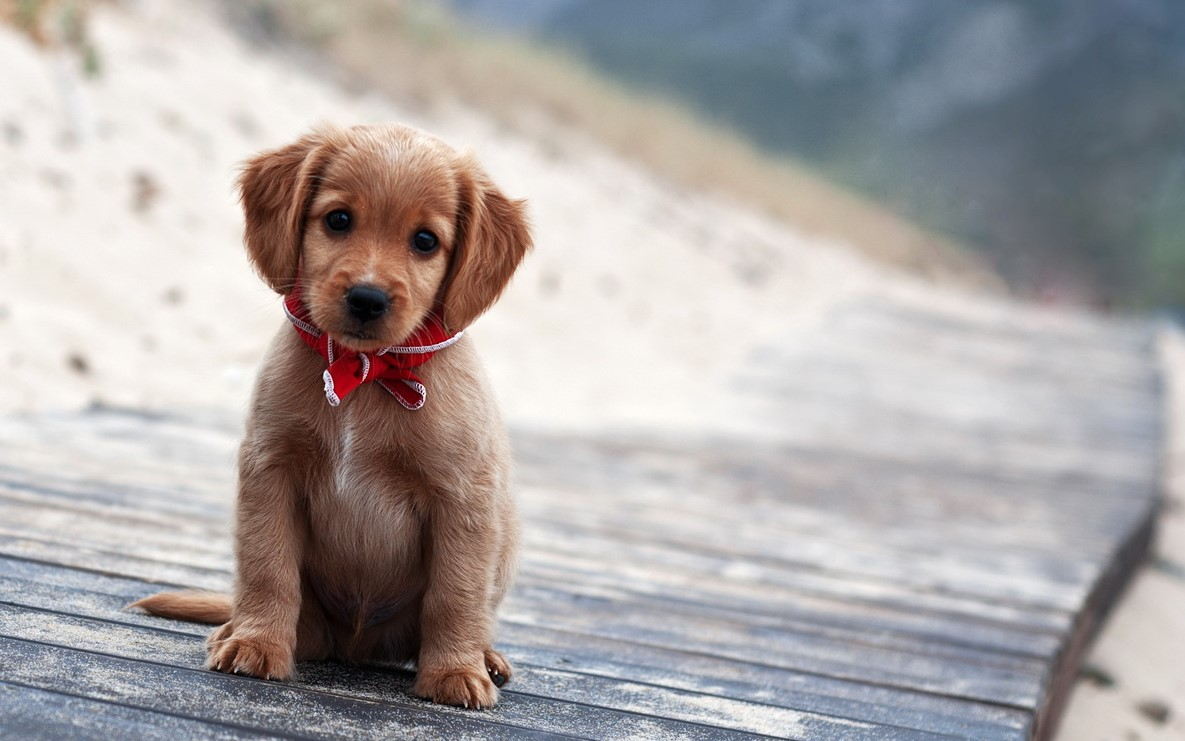
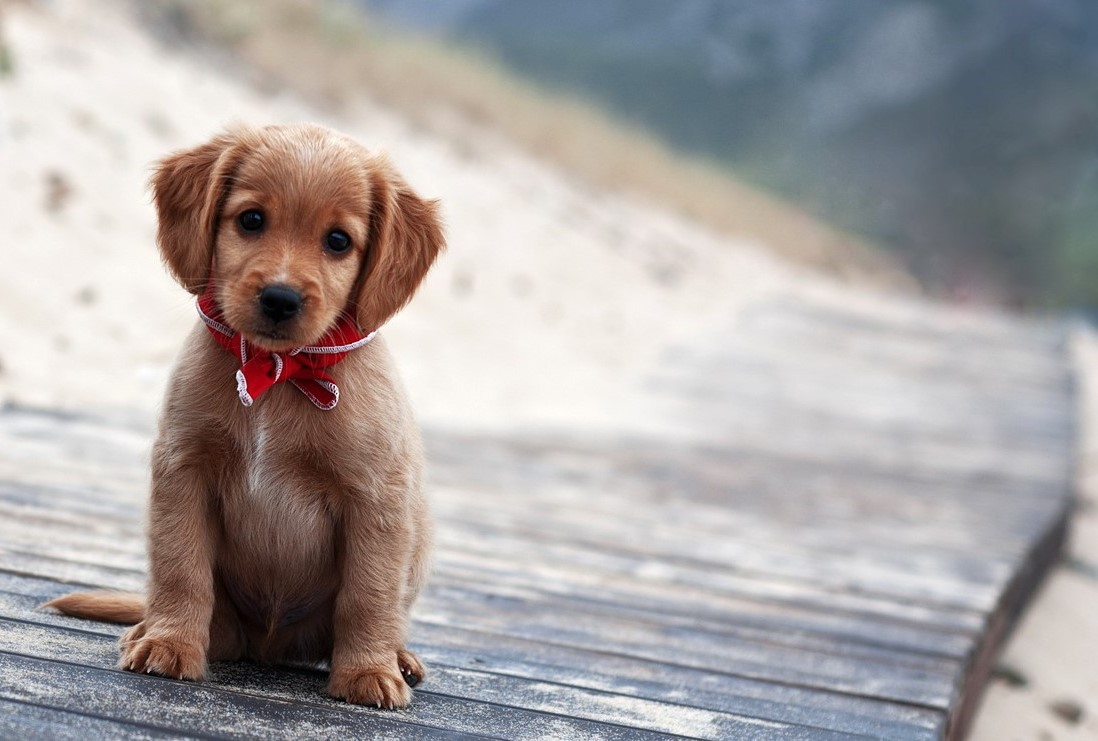
Adding files

diff --git a/index.html b/index.html
@@ -6,6 +6,7 @@
     <meta http-equiv="X-UA-Compatible" content="IE=edge">
     <meta name="viewport" content="width=device-width, initial-scale=1.0">
     <link rel="stylesheet" type="text/css" href="style.css">
+    <link rel="stylesheet"href="https://maxcdn.bootstrapcdn.com/font-awesome/4.7.0/css/font-awesome.min.css">
 
 </head>
 <header class="navbar-fixed-top">
@@ -93,14 +94,18 @@
 
                     </div>
                     <br>
-                    <link rel="stylesheet"
-                        href="https://maxcdn.bootstrapcdn.com/font-awesome/4.7.0/css/font-awesome.min.css">
+                    <br>
+                    <br>
+                    <br>
+                    
+                    <link rel="stylesheet" href="https://maxcdn.bootstrapcdn.com/font-awesome/4.7.0/css/font-awesome.min.css">
                     <div class="wrapper">
-                        <a target="_blank" href="your_url_here"><i class="fa fa-3x fa-google-plus"></i></a>
-                        <a target="_blank" href="your_url_here"><i class="fa fa-3x fa-facebook-square"></i></a>
-                        <a target="_blank" href="your_url_here"><i class="fa fa-3x fa-twitter-square"></i></a>
-                        <a target="_blank" href="your_url_here"><i class="fa fa-3x fa-instagram"></i></a>
+                       <a target="_blank" href="your_url_here"><i class="fa fa-3x fa-google-plus"></i></a>
+                       <a target="_blank" href="your_url_here"><i class="fa fa-3x fa-facebook-square"></i></a>
+                       <a target="_blank" href="your_url_here"><i class="fa fa-3x fa-twitter-square"></i></a>
+                       <a target="_blank" href="your_url_here"><i class="fa fa-3x fa-instagram"></i></a>
                     </div>
+                        
 
                     <script src="https://use.fontawesome.com/releases/v5.8.1/js/all.js"></script>
                     <script src="app.js"></script>

diff --git a/style.css b/style.css
@@ -5,7 +5,7 @@ body, html {
 }
 .bg {
 /*The image used*/
-background-image: url("images/puppy.jpg");
+background-image: url("images/puppy 2.jpg");
     /*Full height*/
     height: 100%;
 /*center and scale the image*/
@@ -145,8 +145,8 @@ p {
   }
 
 .flex-container {
-    display: flex;
-    flex-direction: row;
+display: flex;
+flex-direction: row;
 flex-wrap: wrap;
 
 row-gap: 30px;
@@ -157,7 +157,7 @@ text-align: center;
   
 .flex-container > div {
 margin: 54px;
-padding: 0px 0px 200px 0px;
+
 
 }
 .flexone {
@@ -254,5 +254,3 @@ float: none;
   margin-top: -3px;
   text-shadow: 0px 14px 10px rgba(0, 0, 0, 0.4);
 }
-
-
